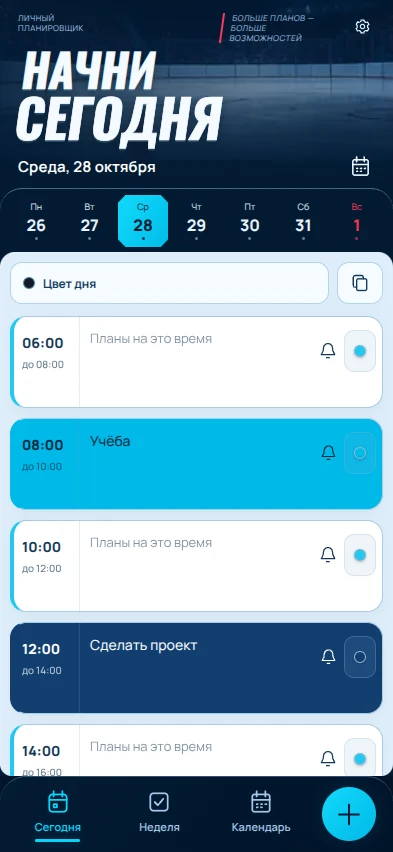
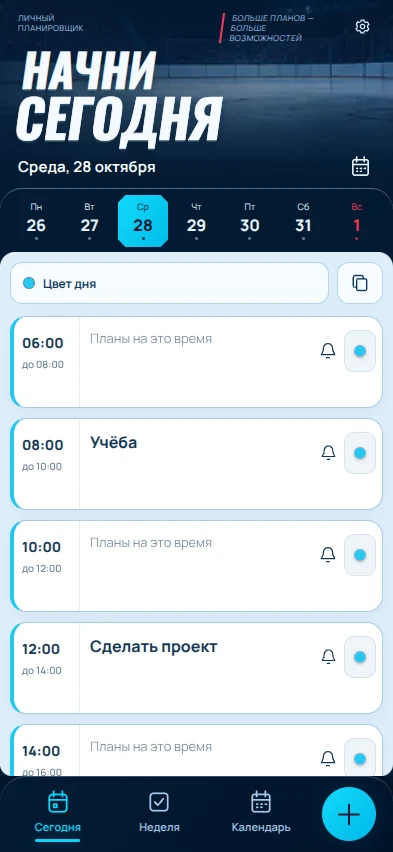
Make filled Ice tasks larger and bold while keeping empty hints quiet (2.3.4)

Changed region(s): [[0.0, 0.7324, 0.9771, 0.8545], [0.0, 0.4883, 0.9771, 0.6103], [0.0611, 0.3052, 0.0916, 0.3357]]

diff --git a/app/src/main/assets/index.html b/app/src/main/assets/index.html
@@ -634,6 +634,11 @@ body[data-design=ice] .overview .day-color-button i{border:1px solid #8cb6d0}
 body[data-design=ice] .ice-color-button{position:static;overflow:hidden;flex:none}
 body[data-design=ice] .ice-color-button span{display:none}
 body[data-design=ice] .swatch i{border:1px solid #7b9db4}
+</style><style>
+/* Filled tasks stand apart from the quiet empty-slot hints. */
+body[data-design=ice] .ice-time-block.has-entry .ice-entry textarea,
+body[data-design=ice] .ice-time-block.has-entry.ice-row-editing.ice-current textarea{font-size:16px;font-weight:700;line-height:1.55}
+body[data-design=ice] .ice-entry textarea::placeholder{font-size:13px;font-weight:400}
 </style></head><body><main><header class="app-heading"><p id="top-date"></p><div class="header-actions"><button class="header-icon" data-tab="events" aria-label="События и напоминания"><svg viewBox="0 0 24 24" fill="none" stroke="currentColor" stroke-width="1.7"><path d="M18 8a6 6 0 0 0-12 0c0 7-3 7-3 9h18c0-2-3-2-3-9M10 21h4"/></svg></button><button class="header-icon" id="settings-open" aria-label="Настройки" aria-expanded="false"><svg viewBox="0 0 24 24" fill="none" stroke="currentColor" stroke-width="1.7"><path d="m10 3-.7 2.3-2 .9-2.2-.7-2 3.4 1.5 1.8v2.6L3.1 15l2 3.4 2.2-.7 2 .9.7 2.4h4l.7-2.4 2-.9 2.2.7 2-3.4-1.5-1.7v-2.6l1.5-1.8-2-3.4-2.2.7-2-.9L14 3z"/><circle cx="12" cy="12" r="3"/></svg></button></div></header><nav class="tabs" aria-label="Период"><button class="tab active" data-tab="day"><svg class="ui-icon" width="20" height="20" viewBox="0 0 24 24" fill="none" stroke="currentColor" stroke-width="1.65" stroke-linecap="round" stroke-linejoin="round" aria-hidden="true"><rect x="4" y="5" width="16" height="16" rx="3"/><path d="M8 3v4m8-4v4M4 11h16m-11 4h2v2H9z"/></svg><span>День</span></button><button class="tab" data-tab="week"><svg class="ui-icon" width="20" height="20" viewBox="0 0 24 24" fill="none" stroke="currentColor" stroke-width="1.65" stroke-linecap="round" stroke-linejoin="round" aria-hidden="true"><rect x="3" y="3" width="7" height="7" rx="1"/><rect x="14" y="3" width="7" height="7" rx="1"/><rect x="3" y="14" width="7" height="7" rx="1"/><rect x="14" y="14" width="7" height="7" rx="1"/></svg><span>Неделя</span></button><button class="tab" data-tab="calendar"><svg class="ui-icon" width="20" height="20" viewBox="0 0 24 24" fill="none" stroke="currentColor" stroke-width="1.65" stroke-linecap="round" stroke-linejoin="round" aria-hidden="true"><rect x="4" y="5" width="16" height="16" rx="3"/><path d="M8 3v4m8-4v4M4 11h16m-11 4h6"/></svg><span>Календарь</span></button><button class="tab" data-tab="savings"><svg class="ui-icon" width="20" height="20" viewBox="0 0 24 24" fill="none" stroke="currentColor" stroke-width="1.65" stroke-linecap="round" stroke-linejoin="round" aria-hidden="true"><ellipse cx="12" cy="5" rx="7" ry="3"/><path d="M5 5v5c0 4 14 4 14 0V5M5 10v5c0 4 14 4 14 0v-5M5 15v4c0 4 14 4 14 0v-4"/></svg><span>Накопления</span></button><button class="tab" data-tab="notes"><svg class="ui-icon" width="20" height="20" viewBox="0 0 24 24" fill="none" stroke="currentColor" stroke-width="1.65" stroke-linecap="round" stroke-linejoin="round" aria-hidden="true"><path d="M14 3H6a2 2 0 0 0-2 2v14a2 2 0 0 0 2 2h12a2 2 0 0 0 2-2V9zM14 3v6h6M8 13h8m-8 4h6"/></svg><span>Заметки</span></button><button class="tab" data-tab="events" aria-label="События и напоминания"><svg class="ui-icon" width="20" height="20" viewBox="0 0 24 24" fill="none" stroke="currentColor" stroke-width="1.65" stroke-linecap="round" stroke-linejoin="round" aria-hidden="true"><path d="M18 8a6 6 0 0 0-12 0c0 7-3 7-3 9h18c0-2-3-2-3-9M10 21h4"/></svg></button></nav><div class="toolbar"><div class="period-title"><h1 class="date-title" id="title"></h1><p class="sub" id="subtitle"></p></div><div class="nav"><button class="btn arrow" id="prev" aria-label="Предыдущий период">‹</button><label class="sr-only" for="date">Выбрать дату</label><input class="date-input" id="date" type="date"><button class="btn arrow" id="next" aria-label="Следующий период">›</button><button class="btn" id="today">Сегодня</button></div></div><div id="view"></div><div id="footer-home" hidden></div><footer id="app-footer" hidden><span id="save-state" role="status">Сохранено на устройстве</span><button id="global-calc-open" hidden aria-label="Калькулятор"></button></footer></main>
 <dialog id="reminder-dialog" aria-labelledby="reminder-title"><form id="reminder-form"><div class="dialog-head"><h2 id="reminder-title">Событие</h2><button type="button" data-close="reminder-dialog" aria-label="Закрыть">×</button></div><input name="reminderId" type="hidden"><label class="field">Название<input name="title" maxlength="500" required placeholder="Например, день рождения"></label><div class="reminder-datetime"><label class="field">Дата<input name="date" type="date" required></label><label class="field">Время<input name="time" type="time" required></label></div><label class="field">Напомнить<select name="lead"><option value="0">В указанное время</option><option value="5">За 5 минут</option><option value="10">За 10 минут</option><option value="15">За 15 минут</option><option value="30">За 30 минут</option><option value="60">За 1 час</option><option value="1440">За 1 день</option></select></label><label class="field">Повтор<select name="repeat"><option value="none">Один раз</option><option value="daily">Каждый день</option><option value="weekly">По дням недели</option><option value="monthly">Каждый месяц</option><option value="yearly">Каждый год</option></select></label><div id="weekday-options" class="weekday-options" hidden><label><input name="weekdays" type="checkbox" value="1">Пн</label><label><input name="weekdays" type="checkbox" value="2">Вт</label><label><input name="weekdays" type="checkbox" value="3">Ср</label><label><input name="weekdays" type="checkbox" value="4">Чт</label><label><input name="weekdays" type="checkbox" value="5">Пт</label><label><input name="weekdays" type="checkbox" value="6">Сб</label><label><input name="weekdays" type="checkbox" value="7">Вс</label></div><p class="dialog-note" id="repeat-help"></p><label class="enabled-reminder"><input type="checkbox" name="enabled" checked>Уведомление включено</label><p id="reminder-error" class="form-error" hidden></p><div class="dialog-actions"><button type="button" class="btn danger" id="reminder-delete" hidden>Удалить</button><button type="submit" class="btn primary">Сохранить</button></div></form></dialog>
 <dialog id="main-menu-dialog" aria-labelledby="main-menu-title"><form id="main-menu-form"><div class="dialog-head"><h2 id="main-menu-title">Главное меню</h2><button type="button" data-close="main-menu-dialog" aria-label="Закрыть">×</button></div><p class="dialog-note">Выбери три раздела для нижнего меню. Плюс остаётся третьей кнопкой. Выбор и порядок одинаковы во всех темах.</p><div id="main-menu-preview" class="main-menu-preview" aria-label="Предпросмотр меню"></div><label class="field">Первая кнопка<select name="menuFirst"></select></label><label class="field">Вторая кнопка<select name="menuSecond"></select></label><label class="field">Кнопка справа от плюса<select name="menuThird"></select></label><p id="main-menu-error" class="form-error" role="alert" hidden></p><p class="dialog-note">Скрытие кнопки не удаляет записи. На день и в настройки можно перейти через «+».</p><button class="btn" id="main-menu-reset" type="button">По умолчанию</button><div class="dialog-actions"><button class="btn" type="button" data-close="main-menu-dialog">Отмена</button><button class="btn primary" id="main-menu-save" type="submit">Сохранить</button></div></form></dialog><dialog id="ice-menu-dialog" aria-labelledby="ice-menu-title"><div class="dialog-head"><h2 id="ice-menu-title">Больше возможностей</h2><button data-close="ice-menu-dialog" aria-label="Закрыть">×</button></div><div id="ice-tools-list"></div></dialog><dialog id="theme-dialog" aria-labelledby="theme-title"><div class="dialog-head"><h2 id="theme-title">Оформление</h2><button data-close="theme-dialog" aria-label="Закрыть">×</button></div><p class="dialog-note">Открой оформление, посмотри его разделы и нажми «Применить». Цвета можно настроить отдельно.</p><h3 class="appearance-label">Темы приложения</h3><div id="design-gallery" class="design-gallery"></div><h3 class="appearance-label">Цветовая тема</h3><div class="themes-grid" id="themes-grid"></div><section class="custom-theme"><h3>Своя тема</h3><label class="custom-accent-label">Цвет акцента<input id="custom-accent" type="color" value="#52699b"></label><label class="enabled-reminder"><input id="custom-dark" type="checkbox">Тёмный фон</label><button class="btn primary" id="custom-theme-apply">Применить свой цвет</button></section><label class="field">Шрифт интерфейса<select id="typeface-choice"><option value="theme">По теме</option><option value="modern">Современный · Manrope</option><option value="book">Книжный · Lora</option><option value="system">Системный</option></select></label><label class="field">Размер записей<select id="font-size-choice"><option value="small">Компактный</option><option value="normal">Обычный</option><option value="large">Крупный</option></select></label><label class="field">Высота строк расписания<select id="density-choice"><option value="normal">Обычная</option><option value="compact">Компактная</option></select></label></dialog>
